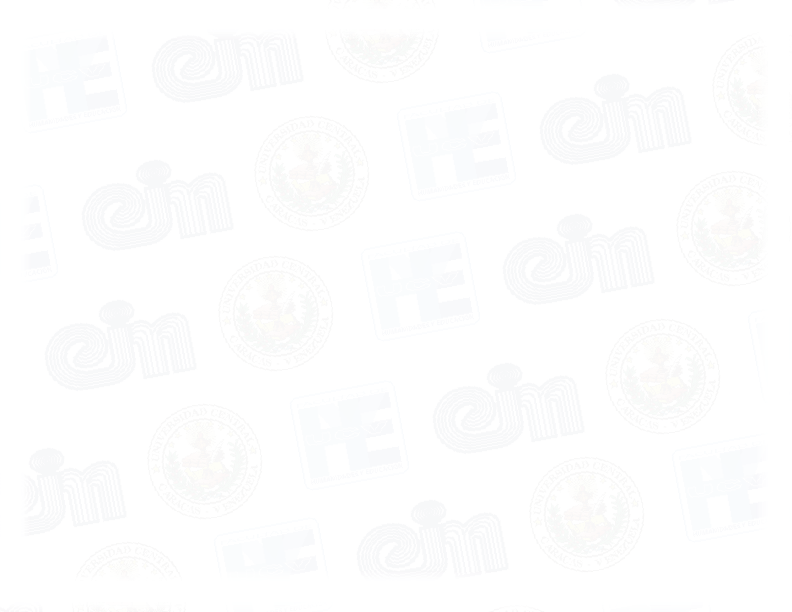
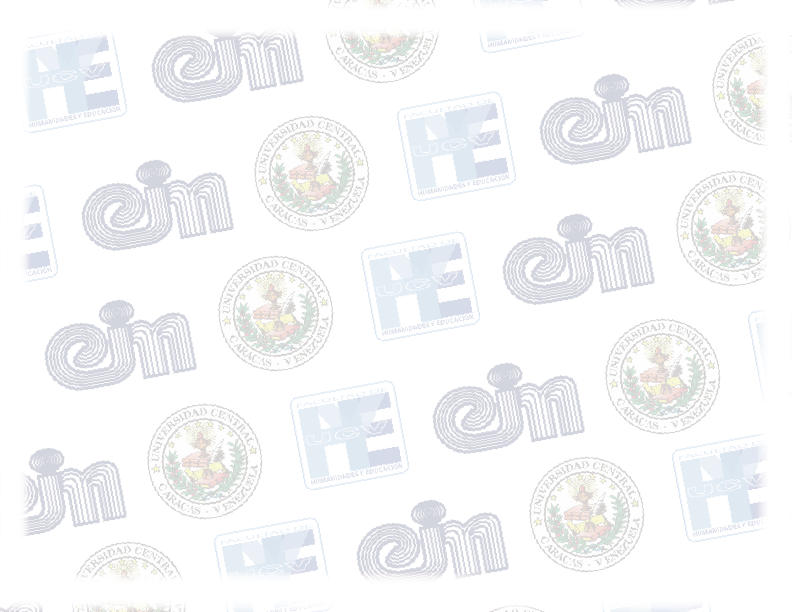
Agregados los certificaos de culminación de los cursos

diff --git a/app/models/pdf_docs.rb b/app/models/pdf_docs.rb
@@ -2,15 +2,16 @@ class PdfDocs
   include ActionView::Helpers::NumberHelper
   include Prawn::View
 
-  def self.career_finished_certificate career
-    color_base = '6F9BED'
-    pdf = Prawn::Document.new(top_margin: 20, page_layout: :landscape, background: "app/assets/images/finished_certificate.png")
+  def self.career_finished_certificate career, verified=false
+    # color_base = '001549'
+    color_base = 'c88513'
+    pdf = Prawn::Document.new(top_margin: 20, bottom_margin: 10, page_layout: :landscape, background: "app/assets/images/finished_certificate4.png")
 
     # Rails.root.join("app/assets/fonts/diploma.ttf")
     pdf.font_families.update( "DiplomaFamily" => {:normal => "app/assets/fonts/diploma.ttf"})
 
 
-    pdf.image "app/assets/images/banner_logos_dark.png", width: pdf.bounds.width
+    pdf.image "app/assets/images/banner_logos.png", width: pdf.bounds.width
 
     pdf.move_down 10
     pdf.text "UNIVERSIDAD CENTRAL DE VENEZUELA", align: :center
@@ -24,7 +25,7 @@ class PdfDocs
     pdf.text "Otorga el presente certificado a", align: :center, size: 12
     pdf.move_down 10
     pdf.font("DiplomaFamily") do
-      pdf.text career.user.full_name_invert, align: :center, color: color_base, size: 60
+      pdf.text career.user.full_name_invert, align: :center, color: color_base, size: 45
     end
     pdf.move_down 5
     pdf.text "CI: #{career.student.ci}", align: :center, color: color_base, size: 20
@@ -34,39 +35,62 @@ class PdfDocs
     pdf.text  "<b>#{career.language.name.upcase} COMO LENGUA EXTRANJERA</b>", align: :center, size: 20, inline_format: true
     pdf.move_down 10
 
-    pdf.text "#{career.language.total_levels*54} Horas académicas", align: :center, size: 12
+    pdf.text "#{career.total_academic_hours_approved} horas académicas", align: :center, size: 12
     pdf.move_down 10
-    t = Time.new
-    pdf.text "Caracas, #{t.day} de #{t.month} de #{t.year}", align: :center, size: 12
-    pdf.move_down 50
+    pdf.text "Caracas, #{I18n.l(Time.now, format: '%d de %B de %Y')}", align: :center, size: 12
 
-    require 'rqrcode'
+    pdf.move_down 10
 
-    # link = "http://localhost:3000/careers/#{career.id}/career_finished_certificate"
-    link = "https://fundeim.com/careers/#{career.id}/career_finished_certificate"
-    qrcode = RQRCode::QRCode.new(link)
+    unless verified
+      link = "https://fundeim.com/careers/#{career.id}/career_finished_certificate_verify"
+    
+      pdf.text "<a href='#{link}' style='margin-right:100px' target='_blank'>clic para verificar</a>", align: :center, size: 8, inline_format: true, color: color_base
+    else
+      pdf.move_down 5
 
-    png = qrcode.as_png(
-      bit_depth: 1,
-      border_modules: 4,
-      color_mode: ChunkyPNG::COLOR_GRAYSCALE,
-      color: 'black',
-      file: "tmp/barcode.png",
-      fill: 'white',
-      module_px_size: 6,
-      resize_exactly_to: false,
-      resize_gte_to: false,
-      size: 150
-    )
+    end
+
+    pdf.move_down 40
+
+    unless verified
+      require 'rqrcode'
+
+      qrcode = RQRCode::QRCode.new(link)
+
+      png = qrcode.as_png(
+        bit_depth: 1,
+        border_modules: 4,
+        color_mode: ChunkyPNG::COLOR_GRAYSCALE,
+        color: 'black',
+        file: "tmp/barcode.png",
+        fill: 'white',
+        module_px_size: 6,
+        resize_exactly_to: false,
+        resize_gte_to: false,
+        size: 150
+      )
+      pdf.image "#{Rails.root.to_s}/tmp/barcode.png", width: 120, at: [300, 150]
+    else
+      pdf.image "app/assets/images/school_stamp.png", width: 120, at: [300, 150]
+    end
 
     # pdf.text "#{pdf.bounds.width}" # 720
-    pdf.image "#{Rails.root.to_s}/tmp/barcode.png", image_width: 50, image_height: 50, at: [290, 150]
 
-    pdf.text "<b>Prof. Carlos A. Saavedra A.</b>                                                                <b>Gustavo Santamaría</b>" , align: :center, size: 12, inline_format: true
-    pdf.text "Director                                                                                              Coordinador De Cursos" , align: :center, size: 12, inline_format: true
-    pdf.move_down 10
+    dir_value = GeneralSetup.director_value
+    aca_dir_value = GeneralSetup.academic_director_value
 
+    if verified
+      pdf.image "app/assets/images/signature_director.png", width: 150, at: [100, 150]
+      pdf.image "app/assets/images/signature_aca_dir.png", width: 150, at: [470, 150]
+    end
 
+    pdf.text "<b>#{dir_value}</b>                                                                <b>#{aca_dir_value}</b>" , align: :center, size: 12, inline_format: true
+    pdf.text "Director                                                                                              Coordinador Académico" , align: :center, size: 12, inline_format: true
+
+  
+    pdf.move_down 70
+
+    pdf.text "<a href='https://www.freepik.es/vectores/certificado' style='margin-right:100px' target='_blank'>Vector de Certificado creado por freepik</a>", align: :right, size: 8, inline_format: true, color: 'EEEEEE'
 
     return pdf
 
@@ -190,7 +214,7 @@ class PdfDocs
 
     approved_records pdf, career.academic_records.approved
     
-    pdf.text "Cada nivel tiene una duración de 54 horas académicas (9 semanas aproximadamente).", size: 11, align: :justify, inline_format: true
+    pdf.text "Cada nivel tiene una duración de #{career.academic_records.last.period.academic_hours} horas académicas (9 semanas aproximadamente).", size: 11, align: :justify, inline_format: true
 
     t = Time.new
     pdf.move_down 10

diff --git a/db/schema.rb b/db/schema.rb
@@ -10,7 +10,7 @@
 #
 # It's strongly recommended that you check this file into your version control system.
 
-ActiveRecord::Schema.define(version: 2020_09_01_001337) do
+ActiveRecord::Schema.define(version: 2020_09_02_225308) do
 
   create_table "academic_records", options: "ENGINE=InnoDB DEFAULT CHARSET=utf8", force: :cascade do |t|
     t.bigint "student_id", null: false
@@ -29,7 +29,7 @@ ActiveRecord::Schema.define(version: 2020_09_01_001337) do
     t.index ["student_id"], name: "index_academic_records_on_student_id"
   end
 
-  create_table "action_text_rich_texts", options: "ENGINE=InnoDB DEFAULT CHARSET=utf8mb4 COLLATE=utf8mb4_0900_ai_ci", force: :cascade do |t|
+  create_table "action_text_rich_texts", options: "ENGINE=InnoDB DEFAULT CHARSET=utf8", force: :cascade do |t|
     t.string "name", null: false
     t.text "body", size: :long
     t.string "record_type", null: false
@@ -93,7 +93,7 @@ ActiveRecord::Schema.define(version: 2020_09_01_001337) do
     t.index ["id"], name: "index_banks_on_id"
   end
 
-  create_table "billboards", options: "ENGINE=InnoDB DEFAULT CHARSET=utf8mb4 COLLATE=utf8mb4_0900_ai_ci", force: :cascade do |t|
+  create_table "billboards", options: "ENGINE=InnoDB DEFAULT CHARSET=utf8", force: :cascade do |t|
     t.string "name"
     t.boolean "enabled", default: false, null: false
     t.integer "sequence"
@@ -211,6 +211,7 @@ ActiveRecord::Schema.define(version: 2020_09_01_001337) do
     t.boolean "enrollment", default: false
     t.boolean "enabled_qualification", default: false
     t.boolean "show_survey", default: false
+    t.integer "academic_hours", default: 54
   end
 
   create_table "qualification_details", options: "ENGINE=InnoDB DEFAULT CHARSET=utf8", force: :cascade do |t|

diff --git a/app/controllers/careers_controller.rb b/app/controllers/careers_controller.rb
@@ -15,10 +15,23 @@ class CareersController < ApplicationController
 	def constance_verify
 	end
 
+	def career_finished_certificate_verify
+		
+		if @career.finished?
+			pdf = PdfDocs.career_finished_certificate(@career, true)
+			unless send_data pdf.render, filename: "certificado#{@career.student.ci.to_s}-#{@career.language_id}.pdf", type: "application/pdf", disposition: "inline"
+				flash[:error] = "En estos momentos no se pueden descargar el certificado, inténtelo más tarde."
+			end
+			return
+		else
+			flash[:danger] = 'No se cumplen con los requisitos para acceder al certificado solitado'
+		end
+		return
+	end
+
 	def career_finished_certificate
 		if @career.finished?
 			pdf = PdfDocs.career_finished_certificate(@career)
-			# Hacer Documento pdf
 			unless send_data pdf.render, filename: "certificado#{@career.student.ci.to_s}-#{@career.language_id}.pdf", type: "application/pdf", disposition: "inline"
 				flash[:error] = "En estos momentos no se pueden descargar el certificado, inténtelo más tarde."
 			end

diff --git a/app/models/period.rb b/app/models/period.rb
@@ -92,6 +92,9 @@ class Period < ApplicationRecord
           label 'Id'
         end
 
+        field :academic_hours do
+          label 'Horas Académicas'
+        end
         field :qualification_report do 
           label 'Reporte de calificaciones'
           formatted_value do
@@ -120,6 +123,10 @@ class Period < ApplicationRecord
             {:length => 1, :size => 1, :onInput => "$(this).val($(this).val().toUpperCase().replace(/[^A-Z|0-9]/g,'').charAt($(this).val().length-1))"}
           end
         # help 'Solo un caracter permitido'
+        end
+        
+        field :academic_hours do
+          label 'Horas Académicas'
         end
         # field :qualification_schemas do 
         #   label 'Esquemas de caificaciones'

diff --git a/app/models/general_setup.rb b/app/models/general_setup.rb
@@ -2,6 +2,16 @@ class GeneralSetup < ApplicationRecord
 
   validates :id, presence: true
 
+  def self.director_value
+    aux = GeneralSetup.where(id: "DIRECTOR").first
+    (aux and aux.value) ? aux.value : 'Prof. Carlos A. Saavedra A.'
+  end
+
+  def self.academic_director_value
+    aux = GeneralSetup.where(id: "DIRECTOR_ACADEMICO").first
+    (aux and aux.value) ? aux.value : 'Prof. Gustavo Santamaría'
+  end
+
   def self.video_tuto_canvas_value
     aux = GeneralSetup.where(id: "VIDEO_TUTORIAL_CANVAS").first
     (aux and aux.value) ? aux.value : ''

diff --git a/app/models/career.rb b/app/models/career.rb
@@ -24,6 +24,16 @@ class Career < ApplicationRecord
     self.student.academic_records.joins({section: {course_period: [{course: :level}, :period]}}).order(['periods.year': :desc, 'periods.letter': :desc, 'levels.grade': :desc]).from_language(language_id)
   end
 
+  def academic_record_approved
+    academic_records.approved
+  end
+
+  def total_academic_hours_approved
+    aux = 0
+    academic_records.approved.map{|ar| aux += ar.period.academic_hours}
+    return aux
+  end
+
   def finished?
     final_level = language.last_level
 

diff --git a/config/routes.rb b/config/routes.rb
@@ -28,6 +28,7 @@ Rails.application.routes.draw do
       get 'constance'
       get 'constance_verify'
       get 'career_finished_certificate'
+      get 'career_finished_certificate_verify'
     end
   end
 

diff --git a/db/migrate/20200902225308_add_academic_hours_to_period.rb b/db/migrate/20200902225308_add_academic_hours_to_period.rb
@@ -1,0 +1,5 @@
+class AddAcademicHoursToPeriod < ActiveRecord::Migration[6.0]
+  def change
+  	add_column :periods, :academic_hours, :integer, default: 46
+  end
+end
